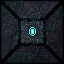
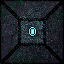
PAREDES E FARSAS

diff --git a/src/newjogo.svelte b/src/newjogo.svelte
@@ -72,22 +72,22 @@
         [2,0,0,0,0,0,0,0,0,0,0,0,0,0,1,0,0,0,0,0,0,0,0,0,0,0,0,0,0,0,0,0,0,0,0,0,0,0,0,0,0,0,0,0,0,0,0,0,0,0,0,0,0,0,0,0,0,0,0,0,0,0,0,1,2],
         [2,1,0,1,1,1,1,1,0,1,1,0,1,0,1,0,1,1,1,1,1,1,1,1,1,1,1,1,1,1,0,1,0,1,0,1,1,1,1,1,1,1,1,1,1,1,1,1,1,1,1,1,1,1,0,1,1,1,1,1,1,1,0,1,2],
         [2,1,0,1,0,0,0,1,0,1,0,0,1,0,1,0,0,0,0,0,0,0,0,0,0,0,0,1,1,1,0,1,0,1,0,0,0,0,0,0,0,0,0,0,0,0,0,0,0,0,0,0,0,1,0,0,0,0,0,0,0,1,0,1,2],
-        [2,1,0,1,0,1,0,1,0,1,1,1,1,0,1,1,1,1,1,1,1,1,1,1,0,1,0,1,1,1,0,1,0,0,0,1,1,1,1,1,1,1,1,0,1,1,1,1,1,1,1,1,0,1,0,1,1,1,1,1,0,1,0,1,2],
+        [2,1,0,1,0,1,0,1,0,1,1,1,1,0,1,1,1,1,1,1,1,1,1,1,0,1,0,1,1,1,0,1,0,0,0,1,1,"CAMINHO",1,1,1,1,1,0,1,1,1,1,1,1,1,1,0,1,0,1,1,1,1,1,0,1,0,1,2],
         [2,1,0,0,0,1,0,0,0,0,0,0,0,0,1,0,0,0,0,0,0,0,0,1,0,1,0,0,0,0,0,1,1,0,1,1,1,0,1,0,0,0,1,0,1,0,0,0,0,0,0,0,0,1,0,1,0,0,0,1,0,1,0,1,2],
         [2,1,0,1,1,1,0,1,0,1,1,1,1,0,1,1,1,1,1,1,1,1,0,1,0,1,0,1,1,1,1,1,0,0,0,0,1,0,1,1,1,0,1,0,1,0,1,1,1,1,1,1,0,1,0,1,0,1,1,1,0,1,0,1,2],
-        [2,1,0,0,0,0,0,1,0,1,0,0,0,0,0,0,1,0,0,0,0,1,0,1,0,1,0,0,0,0,0,1,1,0,1,1,1,0,1,0,0,0,1,0,1,0,0,0,0,0,0,0,0,1,0,1,0,0,0,0,0,1,0,1,2],
+        [2,1,0,0,0,0,0,1,0,1,0,0,0,0,0,0,1,0,0,0,0,1,0,1,0,1,0,0,0,0,0,1,1,0,1,1,1,0,"CAMINHO",0,0,0,1,0,1,0,0,0,0,0,0,0,0,1,0,1,0,0,0,0,0,1,0,1,2],
         [2,1,0,1,1,1,1,1,0,1,1,1,1,1,1,0,0,0,1,0,1,1,0,1,0,1,0,1,1,1,1,1,0,0,0,1,1,0,1,1,1,0,1,0,1,1,1,1,1,1,1,1,0,1,0,1,1,1,1,1,1,1,0,1,2],
         [2,1,0,0,0,0,0,0,0,0,0,0,0,0,1,0,1,0,1,0,1,0,0,1,0,1,0,0,0,0,0,1,0,1,0,1,1,0,1,0,0,0,1,0,1,0,0,0,0,0,0,0,0,1,0,0,0,0,0,0,0,0,0,1,2],
         [2,1,0,1,1,1,1,1,1,1,0,1,1,0,1,0,1,0,1,1,1,0,0,1,0,1,1,1,1,1,0,1,0,1,0,1,1,1,1,1,1,1,1,0,1,0,1,1,1,1,1,1,0,1,1,1,1,1,1,1,1,1,0,1,2],
         [2,1,0,0,0,0,0,0,0,0,0,1,1,0,1,0,1,0,1,0,1,1,0,1,0,0,0,0,0,1,0,1,0,1,0,1,0,0,0,0,0,0,0,0,0,0,1,0,0,0,0,0,0,0,0,1,0,0,1,0,0,1,0,1,2],
-        [2,1,0,1,1,1,1,0,1,1,1,1,1,0,1,0,1,0,1,0,1,1,0,1,0,1,1,1,1,1,0,1,0,1,0,1,0,1,1,1,1,1,1,1,1,0,1,0,1,1,1,1,0,1,0,1,0,1,1,1,0,1,0,1,2],
+        [2,1,0,1,1,1,1,0,1,1,1,1,1,0,1,0,1,0,1,0,1,1,0,1,0,1,1,1,1,1,0,1,0,1,0,1,0,1,"CAMINHO",1,1,1,1,1,1,0,1,0,1,1,1,1,0,1,0,1,0,1,1,1,0,1,0,1,2],
         [2,1,0,0,0,0,1,0,0,0,0,0,1,0,0,0,0,0,0,0,0,0,0,0,0,0,0,0,0,0,0,1,0,1,0,1,0,1,0,0,1,1,0,0,1,0,1,0,1,0,0,0,0,1,0,1,0,1,0,1,0,1,0,1,2],
-        [2,1,0,1,1,0,0,0,1,0,1,0,1,1,1,1,1,1,1,1,1,1,1,0,1,1,1,1,1,1,0,1,0,1,0,1,0,1,0,0,1,1,0,0,1,0,0,0,1,0,1,1,0,1,0,1,0,1,0,1,0,1,0,1,2],
+        [2,1,0,1,1,0,0,0,1,0,1,0,1,1,1,1,1,1,1,1,1,1,1,0,1,1,1,1,1,1,0,1,0,1,0,1,0,1,0,0,"CAMINHO","CAMINHO",0,0,1,0,0,0,1,0,1,1,0,1,0,1,0,1,0,1,0,1,0,1,2],
         [2,1,0,1,1,0,0,1,1,0,1,0,1,1,1,1,1,0,0,0,0,0,0,0,0,0,0,0,0,1,0,1,0,1,0,1,0,1,1,1,0,0,1,1,1,0,1,0,1,0,1,1,0,1,0,1,0,1,0,1,0,1,0,1,2],
         [2,"falsa",0,0,0,0,0,0,0,0,0,0,0,0,0,0,1,0,1,0,1,1,1,1,1,1,1,1,0,1,0,1,0,1,0,1,0,1,1,0,0,0,0,1,1,0,1,0,1,0,1,1,0,1,0,1,0,0,0,0,0,1,0,1,2],
         [2,1,0,1,1,1,0,1,1,1,1,1,1,0,1,0,1,0,1,0,0,0,0,0,0,0,0,1,0,1,0,1,0,1,0,1,0,1,1,0,0,0,0,1,1,0,1,0,1,0,0,1,0,0,0,0,1,1,1,1,0,1,1,1,2],
         [2,1,0,0,0,1,0,1,1,1,1,1,1,0,1,0,1,0,1,0,1,1,1,1,1,0,1,0,1,1,1,1,1,1,0,0,0,0,1,0,1,1,0,1,1,0,1,0,0,0,0,1,1,1,1,0,1,1,1,1,1,1,0,1,2],
-        [2,1,0,1,1,1,0,1,0,0,0,0,1,0,1,0,1,0,1,0,0,0,0,0,1,0,0,0,0,0,1,0,0,0,0,1,1,0,0,1,1,1,1,1,1,0,1,1,0,1,0,0,0,1,1,0,0,0,0,0,0,0,0,1,2],
+        [2,1,0,1,1,1,0,1,0,0,0,0,1,0,1,0,1,0,1,0,0,0,0,0,1,0,0,0,0,0,1,0,0,0,0,1,1,0,0,1,1,1,"CAMINHO",1,1,0,1,1,0,1,0,0,0,1,1,0,0,0,0,0,0,0,0,1,2],
         [2,1,0,0,0,0,0,1,0,1,1,0,1,0,1,0,1,0,1,0,1,1,1,1,1,0,1,0,1,1,1,0,1,1,1,1,1,1,0,0,0,1,0,0,0,0,0,0,0,1,0,1,0,1,1,0,1,1,1,1,1,1,0,1,2],
         [2,1,0,1,1,1,0,1,0,1,1,0,0,0,1,1,1,0,1,0,0,0,0,1,1,0,1,1,1,0,0,0,1,1,1,1,1,1,1,1,0,1,0,1,1,1,1,1,1,1,0,1,0,1,1,0,0,0,0,0,0,1,0,1,2],
         [2,1,0,0,1,1,0,1,0,1,1,1,1,1,1,0,0,0,1,0,0,1,0,1,1,0,1,1,0,0,1,1,1,1,0,0,0,0,1,1,0,1,0,1,0,1,0,0,0,0,0,1,0,0,0,0,1,1,1,1,0,1,0,1,2],
@@ -769,7 +769,7 @@ let mapa3 = [
                     {:else if elementos == "falsa"}
                         <th><img src="/css/imagens/saida.png" alt="falsa"></th>
                     {:else if elementos == "CAMINHO"}
-                        <th><img src="/css/imagens/paredenivel2.png" alt="paredefalsa"></th>
+                        <th><img src="/css/imagens/paredefalsanivel2.png" alt="paredefalsa"></th>
                     {/if}
                     {/if}
                 {/each}
